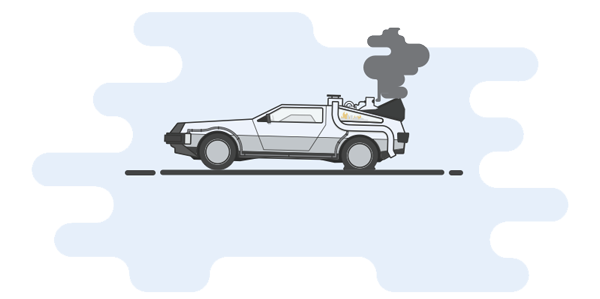
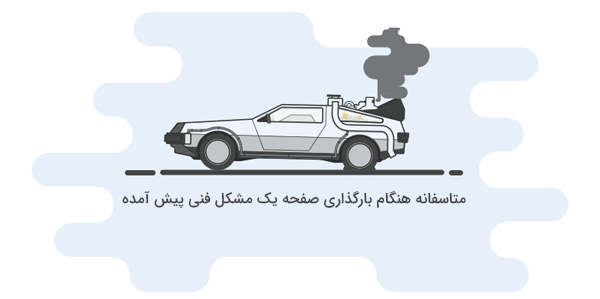
srcroll to last selected car cart in search result

Changed region(s): [[0.18, 0.6321, 0.78, 0.6923]]

diff --git a/src/containers/Search_result/index.tsx b/src/containers/Search_result/index.tsx
@@ -7,7 +7,9 @@ import { REQUEST_GET_SEARCH_FOR_RENT } from "../../API";
 // import "./Search_result.scss";
 import { NextSeo } from "next-seo";
 import Spinner from "../../components/Spinner";
+import jsCookie from "js-cookie";
 
+let JumpTo = null;
 // default location is Tehran
 let Location: any = 1;
 let Start_date = null;
@@ -37,6 +39,10 @@ let filtersChecker = {
   brand_id: false,
   car_id: false,
 };
+
+// Set position
+let position = 0;
+
 const Search_result = () => {
   const [result, setResult] = useState(null);
   const [extra_info, setExtra_info] = useState([]);
@@ -52,8 +58,19 @@ const Search_result = () => {
     End_date = end_date;
     initSearch();
 
+    const handleRouteChange = (url) => {
+      if (url.includes("/car/")) {
+        jsCookie.set("page", page);
+      } else {
+        let JumpTo = null;
+        jsCookie.remove("JumpTo");
+      }
+    };
+
     // reset the data
+    Router.events.on("routeChangeStart", handleRouteChange);
     return () => {
+      Router.events.off("routeChangeStart", handleRouteChange);
       Location = 1;
       Start_date = null;
       End_date = null;
@@ -81,6 +98,8 @@ const Search_result = () => {
   }, []);
 
   async function initSearch() {
+    JumpTo = jsCookie.get("JumpTo");
+
     // reset the data
     if (!loadMoreCar) {
       setResult(null);
@@ -113,9 +132,13 @@ const Search_result = () => {
       queryString += `&car_id=${car_id}`;
     }
     try {
+      let limit = 16;
+      if (JumpTo === "1") {
+        limit = 16 * jsCookie.get("page");
+      }
       const res: any = await REQUEST_GET_SEARCH_FOR_RENT({
         queryString,
-        limit: 16,
+        limit: limit,
         page,
       });
       setTotal_count(res.total_count);
@@ -128,6 +151,11 @@ const Search_result = () => {
         loadMoreCar = false;
       } else {
         setResult(res.results);
+      }
+      if (JumpTo === "1") {
+        window.scrollTo(0, position);
+        jsCookie.remove("JumpTo");
+        page = +jsCookie.get("page");
       }
     } catch (error) {
       console.log("!Error", error);
@@ -180,8 +208,15 @@ const Search_result = () => {
     initSearch();
   };
 
+  const getClickPosition = () => {
+    position = window.scrollY;
+  };
+
   return (
-    <article className="search_result_page_container">
+    <article
+      className="search_result_page_container"
+      onClick={getClickPosition}
+    >
       {result && (
         <NextSeo
           title={`جستجو برای تهران، از ${Start_date} تا ${End_date} | اتولی`}

diff --git a/pages/500.tsx b/pages/500.tsx
@@ -20,13 +20,19 @@ const AboutUs = () => {
           cardType: "summary_large_image",
         }}
       />
-      <article className="minHeight">
-        <section className="_500container">
-          <img src={_500} alt="500" className="_404PageImage" />
-          <p>
-            مکشلی از سمت رخ داده است، لطفا بعد از چند دقیقه مجددا تلاش کنید.
-          </p>
-        </section>
+      <article className="minHeight _500container">
+        <img src={_500} alt="500" className="_404PageImage" />
+        <span>
+          به زودی این مشکل را برطرف خواهیم کرد. لطفا کمی بعد دوباره به ما سر
+          بزنید.
+        </span>
+        <p>
+          همیشه خوشحال میشویم صدای شما را از طریق تلفن بشنویم یا به وسیله چت با
+          شما در تماس باشیم.
+        </p>
+        <p>
+          شماره تماس: <a href="tel:02188567759">۰۲۱۸۸۵۶۷۷۵۹</a>
+        </p>
         <Link href="/">
           <a className="_404PageAnchor Blue_BTN">بازگشت به صفحه اصلی</a>
         </Link>

diff --git a/src/containers/car/carpage/index.tsx b/src/containers/car/carpage/index.tsx
@@ -9,6 +9,7 @@ import Link from "next/link";
 import DatePicker, { DayRange, utils } from "react-modern-calendar-datepicker";
 import CarPageLoading from "../../../components/cartPlaceholder/carPageLoading";
 import { NextSeo } from "next-seo";
+import jsCookie from "js-cookie";
 
 // import "./carpage.scss";
 
@@ -65,6 +66,15 @@ const CarPage = () => {
       // just get the main info about the car
       fetchData({ id });
     }
+    const handleRouteChange = (url) => {
+      if (url.includes("/search-result")) {
+        jsCookie.set("JumpTo", 1);
+      }
+    };
+    Router.events.on("routeChangeStart", handleRouteChange);
+    return () => {
+      Router.events.off("routeChangeStart", handleRouteChange);
+    };
   }, []);
 
   const fetchData = async (data) => {

diff --git a/public/sw.js b/public/sw.js
@@ -124,10 +124,10 @@ define("./sw.js",['./workbox-1a4a986e'], function (workbox) { 'use strict';
     "revision": "9e99330d7177a9df34074356546c67da"
   }, {
     "url": "/_next/static/runtime/webpack.js",
-    "revision": "14f3d770726b618d9a9f606bd1409388"
+    "revision": "8e4c0687870c5f173e63f8ed9edef636"
   }, {
     "url": "/_next/static/runtime/webpack.js.map",
-    "revision": "95a16c864e49168851c427c561d05e70"
+    "revision": "8b9db1f2baff5cc37c9e9fa2539e923a"
   }], {
     "ignoreURLParametersMatching": [/ts/]
   });

diff --git a/src/styles/main.scss b/src/styles/main.scss
@@ -373,14 +373,20 @@ input {
 // 500 Page
 ._500container {
   position: relative;
+  span {
+    display: block;
+    text-align: center;
+    margin-bottom: 2rem;
+    font-size: 1.4rem;
+    font-weight: 500;
+  }
   p {
-    position: absolute;
-    bottom: 9rem;
-    right: 0;
-    left: 0;
     text-align: center;
     font-weight: 500;
     font-size: 1.4rem;
+    a {
+      color: $AnchorTag_Color;
+    }
   }
 }
 

diff --git a/utils/analytics.js b/utils/analytics.js
@@ -5,9 +5,6 @@ export const initGA = () => {
   ReactGA.initialize("UA-147651642-1");
 };
 export const logPageView = () => {
-  console.log(
-    `Logging pageview for ${window.location.pathname + window.location.search}`
-  );
   ReactGA.set({ page: window.location.pathname + window.location.search });
   ReactGA.pageview(window.location.pathname + window.location.search);
 };
